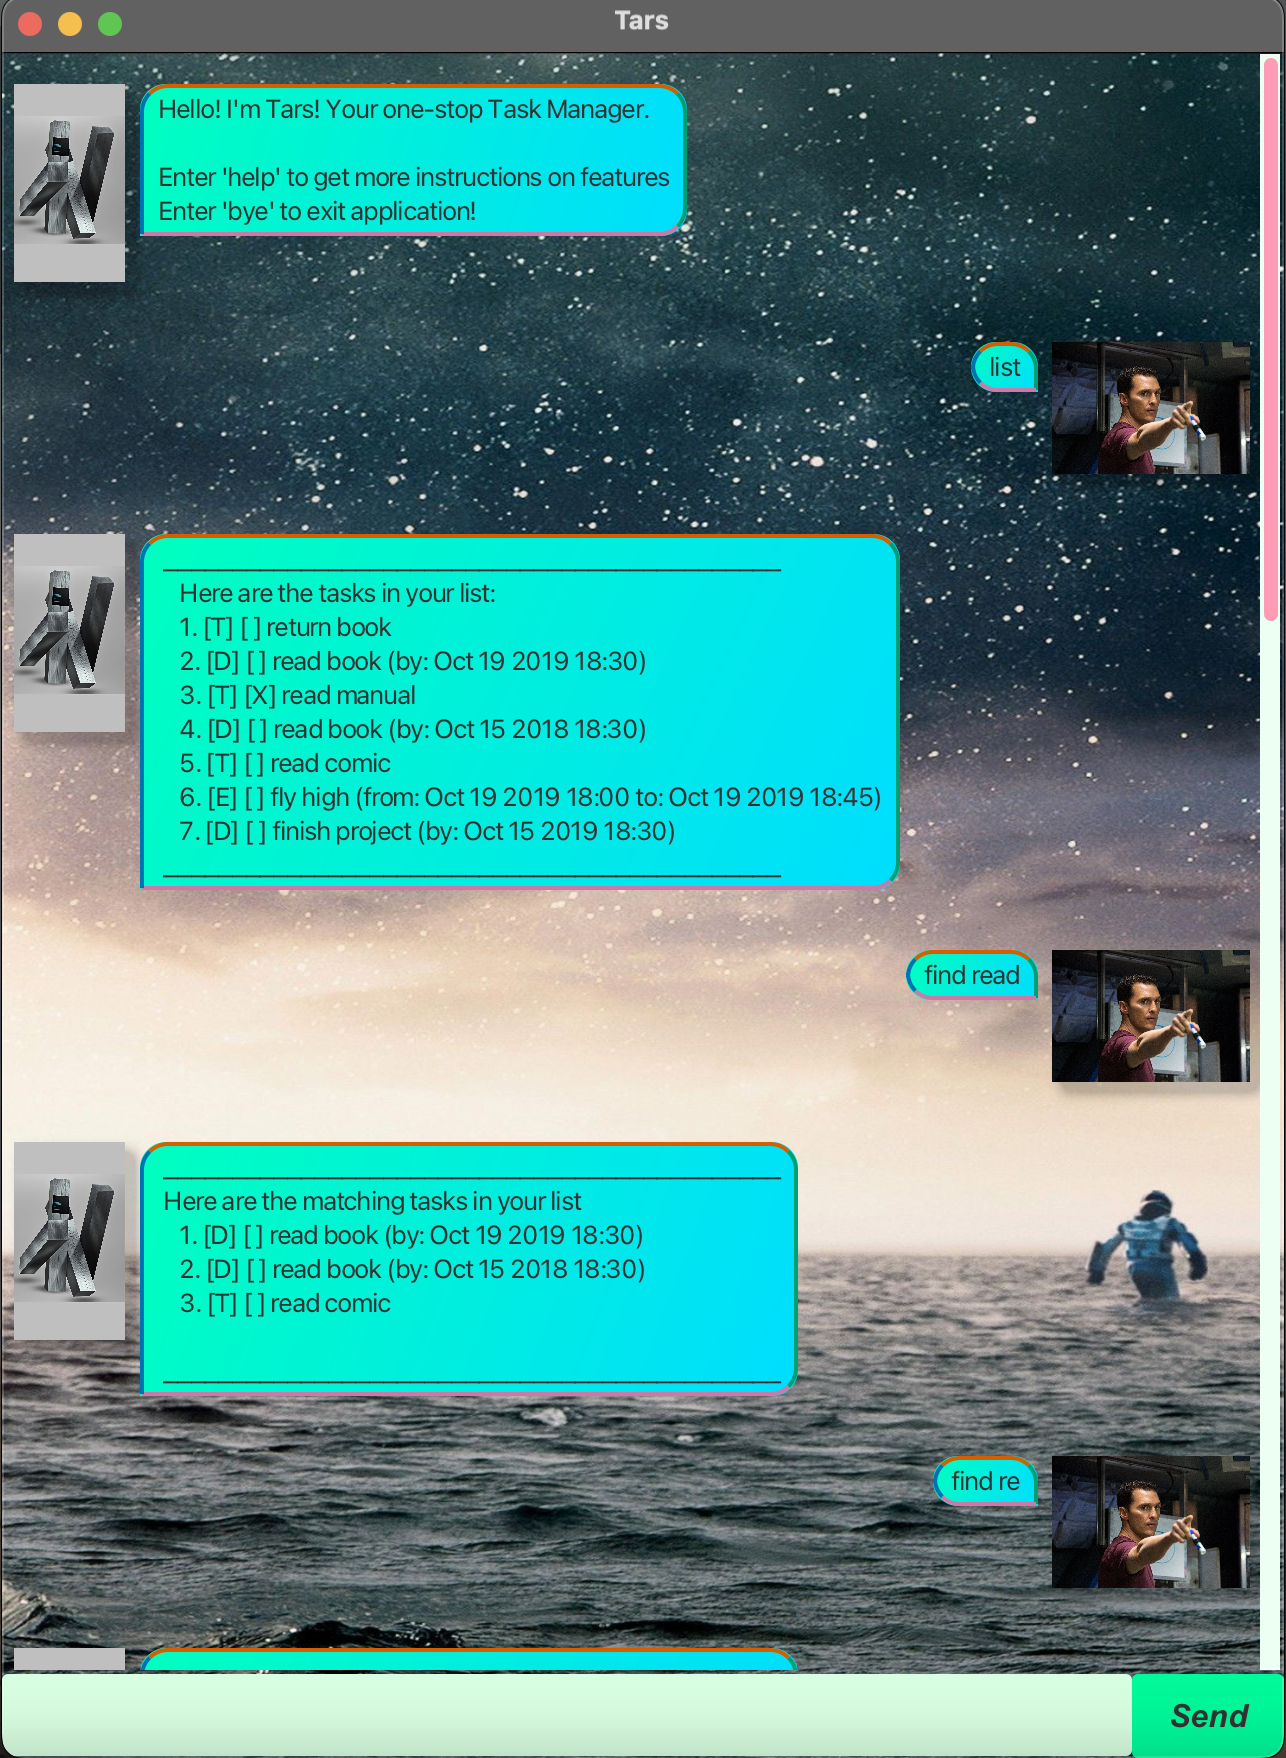
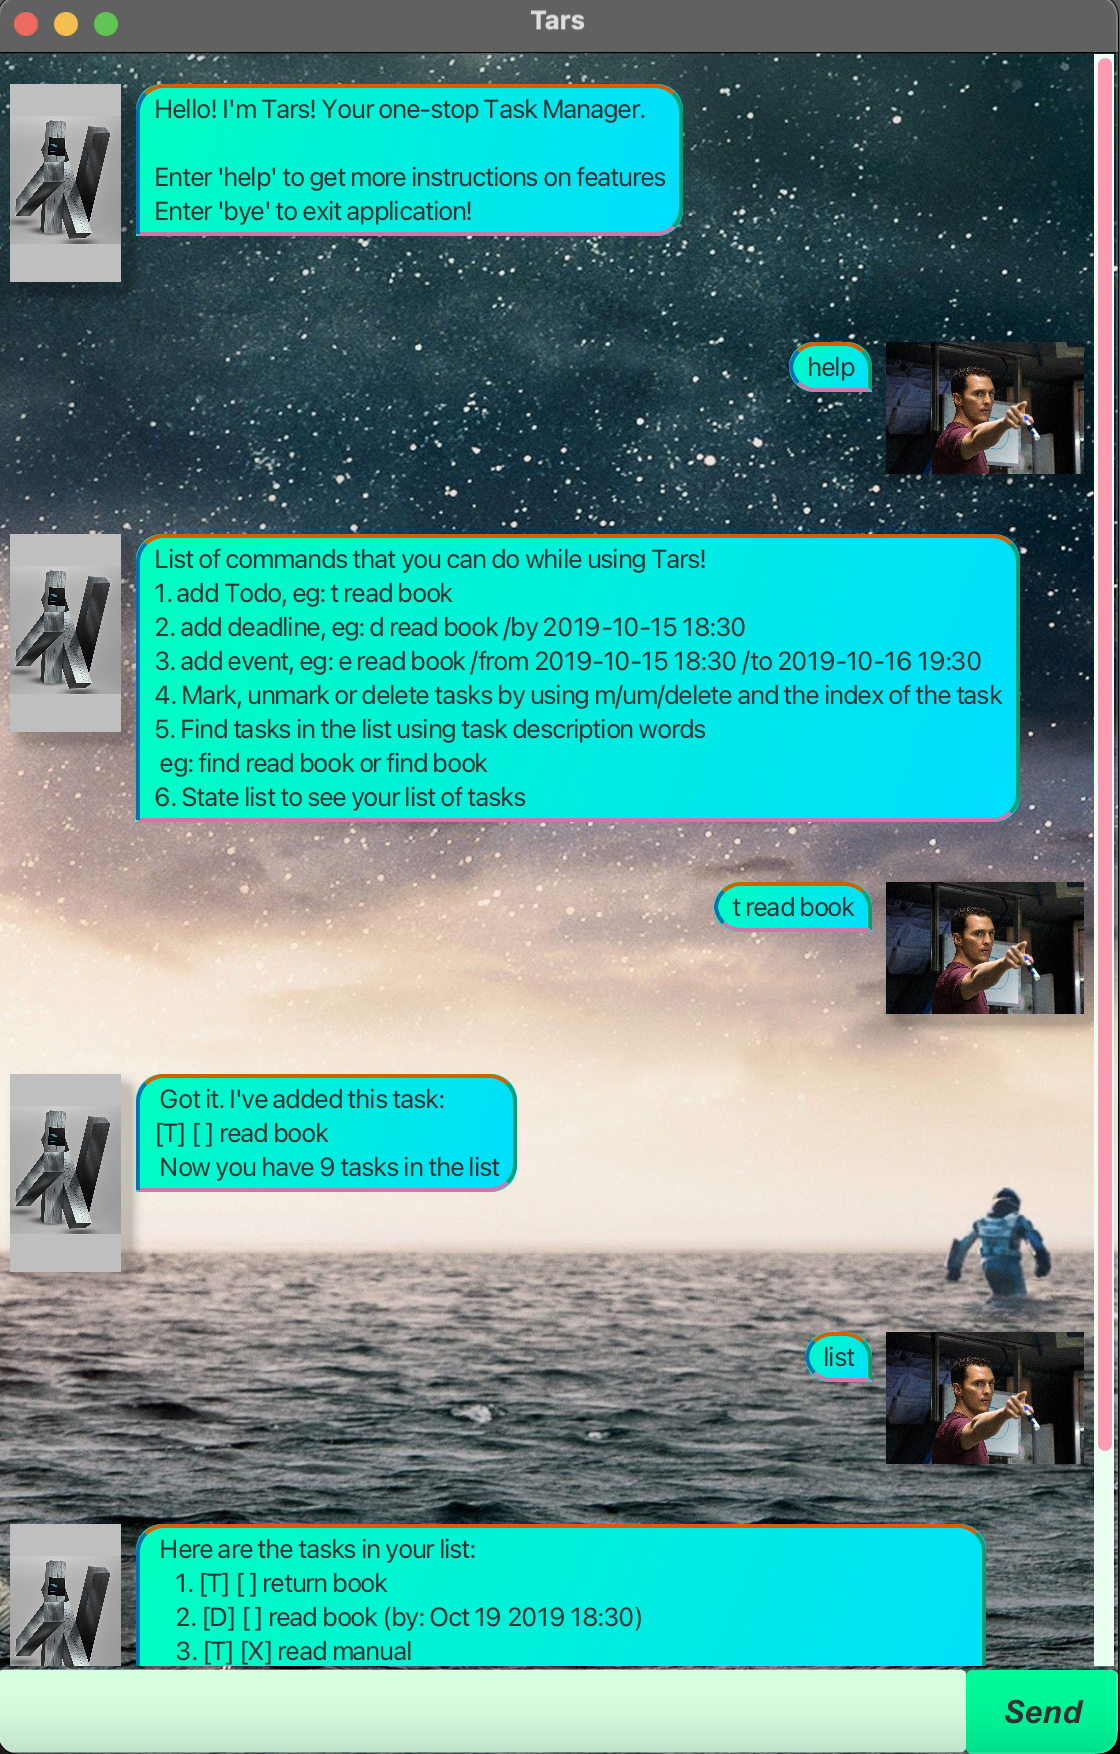
Tweak output messages for some methods to match overall format

diff --git a/src/main/java/tars/TaskList.java b/src/main/java/tars/TaskList.java
@@ -45,10 +45,10 @@ public class TaskList {
         String result = "";
         if (status == 1) {
             taskList.get(index - 1).mark();
-            result = " Nice! I've marked this task as done:" + taskList.get(index - 1);
+            result = " Nice! I've marked this task as done:\n" + taskList.get(index - 1);
         } else if (status == 0) {
             taskList.get(index - 1).unmark();
-            result = " OK, I've marked this task as not done yet:" + taskList.get(index - 1);
+            result = " OK, I've marked this task as not done yet:\n" + taskList.get(index - 1);
         }
         return result;
     }
@@ -65,7 +65,7 @@ public class TaskList {
         Task temp = taskList.get(index - 1);
         taskList.remove(temp);
 
-        String result = " Noted. I've removed this task:" + temp + "\n" + " Now you have "
+        String result = " Noted. I've removed this task:\n" + temp + "\n" + " Now you have "
                 + taskList.size() + " tasks in the list\n";
 
         return result;
@@ -191,7 +191,7 @@ public class TaskList {
             taskList.add(eventTask);
             result = ui.printTask(eventTask, taskList.size());
         } catch (DateTimeException e) {
-            result = " Please state date and time of from and to of event" + "in YYYY-MM-dd HH:mm format\n";
+            result = " Please state date and time of from and to of event" + " in YYYY-MM-dd HH:mm format\n";
         }
         return result;
     }

diff --git a/src/main/java/tars/Ui.java b/src/main/java/tars/Ui.java
@@ -24,10 +24,12 @@ public class Ui {
      */
     public String help() {
         return "List of commands that you can do while using Tars!\n"
-                + "1. Simply use t(for ToDos), d(for Deadline) and e(for event)\n"
-                + "eg: t read book --> todo read book\n"
-                + "2. Mark, unmark or delete tasks by using m/um/delete and the index of the task\n"
-                + "3. State list to see your list of tasks";
+                + "1. add Todo, eg: t read book\n"
+                + "2. add deadline, eg: d read book /by 2019-10-15 18:30\n"
+                + "3. add event, eg: e read book /from 2019-10-15 18:30 /to 2019-10-16 19:30\n"
+                + "4. Mark, unmark or delete tasks by using m/um/delete and the index of the task\n"
+                + "5. Find tasks in the list using task description words\n eg: find read book or find book\n"
+                + "6. State list to see your list of tasks";
     }
 
     /**

diff --git a/src/main/java/tars/MainWindow.java b/src/main/java/tars/MainWindow.java
@@ -49,6 +49,10 @@ public class MainWindow extends AnchorPane {
         );
     }
 
+    //DaUser.png image address: https://mbtifiction.com/wp-content/uploads/2015/09/interstellar05.jpg
+    //BACKGROUND.jpg address: https://i.pinimg.com/originals/e7/4d/a1/e74da16d2822588bdbf0889d15e884a2.jpg
+    //DaDuke.png:
+    //https://w0.peakpx.com/wallpaper/545/464/HD-wallpaper-tars-ai-christopher-nolan-interstellar-nolan-robot.jpg
     /**
      * Creates two dialog boxes, one echoing user input and the other containing Duke's reply and then appends them to
      * the dialog container. Clears the user input after processing.

diff --git a/docs/README.md b/docs/README.md
@@ -80,6 +80,12 @@ Find a task from the list by searching with a keyword
 
 Example: `find read book` 
 This will print all the tasks that has the keyword "book" in it.
+This is how TARS would reply!:
+```
+Here are the matching tasks in your list:
+1. [D] [ ] read book (by: Oct 15 2019 18:30)
+2. [E] [ ] read book (from: Oct 15 2019 18:30 to: Oct 15 2019 20:00)
+```
 
 ## Mark tasks
 All tasks are default unmarked. Mark a task as **completed** using the index of the task. 
